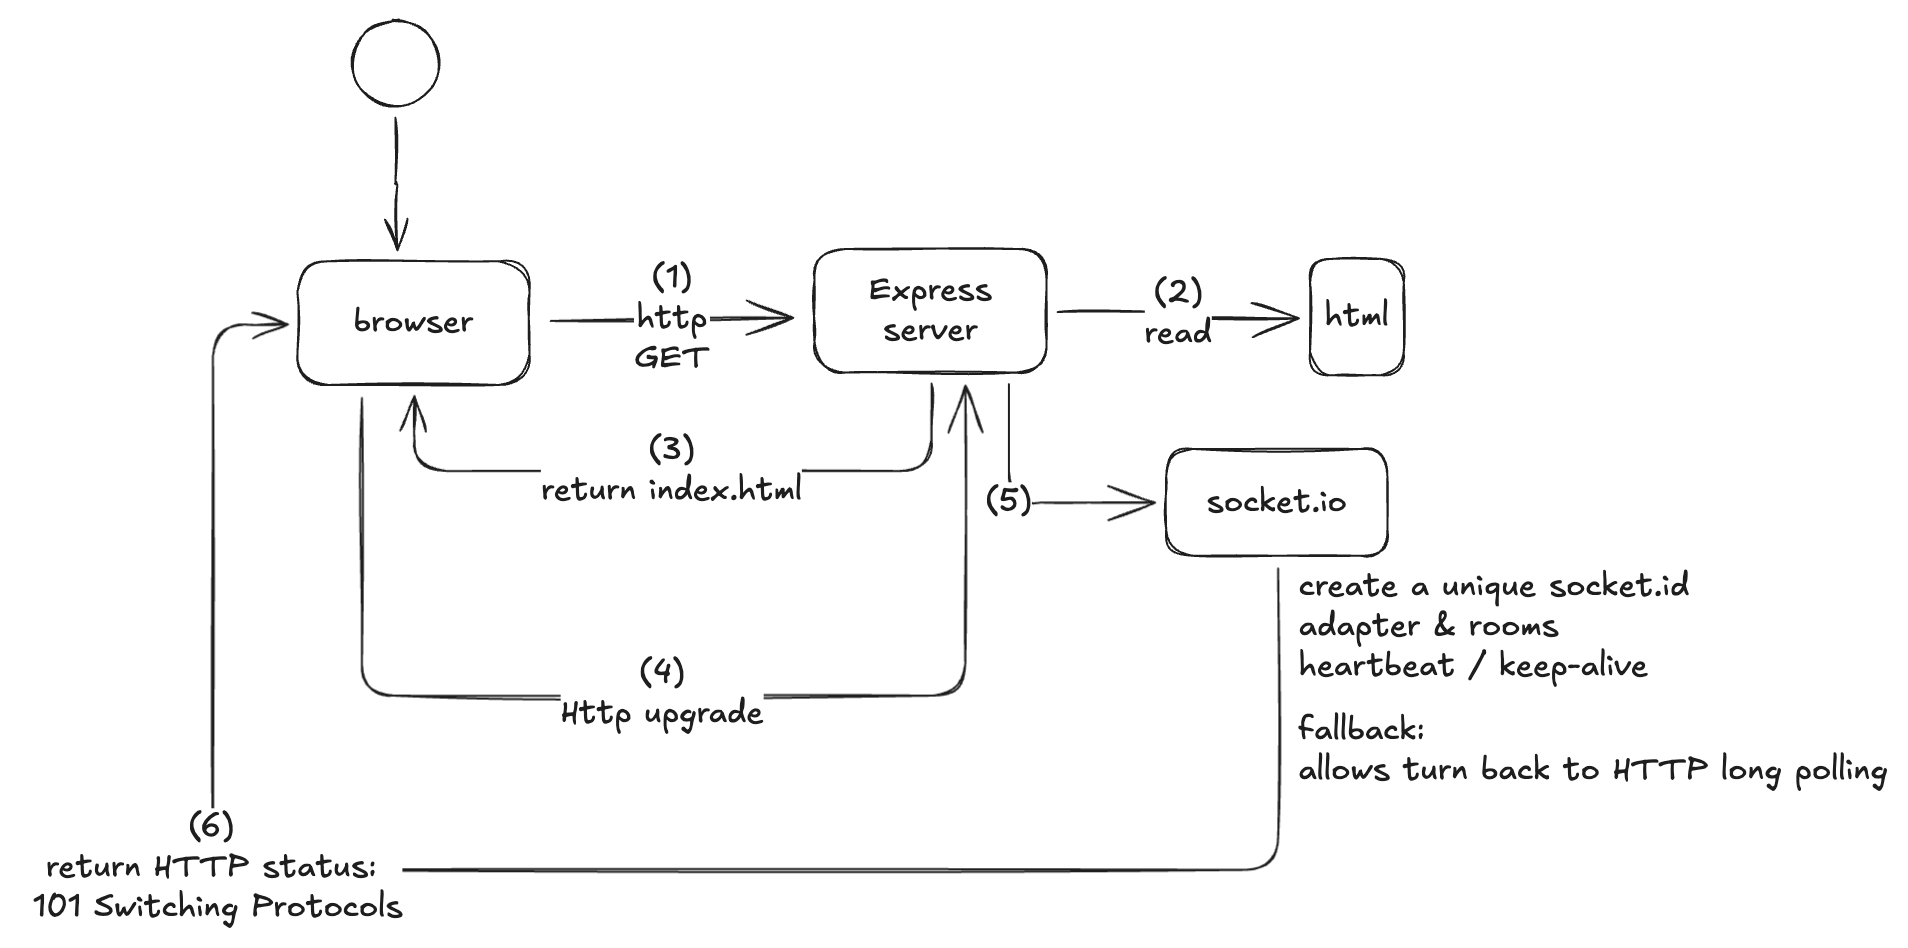
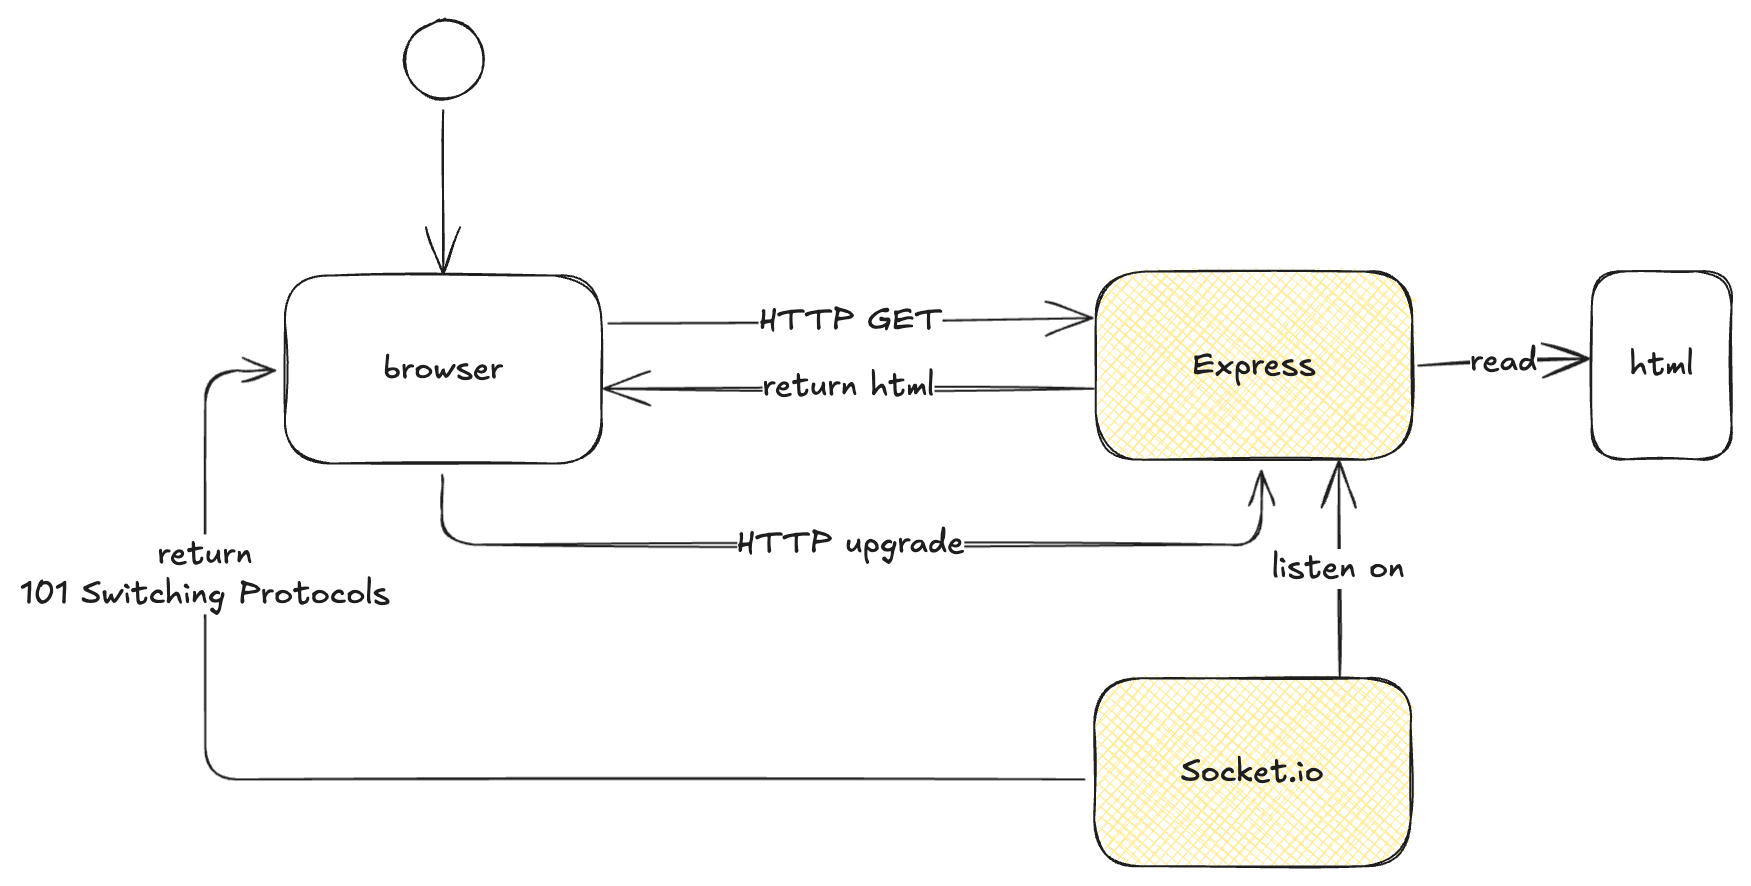
update README and arch diagram

diff --git a/README.md b/README.md
@@ -1,68 +1,57 @@
-# WebRTC
+# Chipi Chat
+This is a real-time Video chat app.
+![](./img/createConnections.png)
 
-It's a Real-Time Chat program built with WebRTC and Socket.io.
-![](https://i.imgur.com/8F1HE9Z.jpg)
-
----
-There are **3 features** in this WebRTC:
-1. Real-Time Video Chat
-2. Text Chat => can see the list of joining and leaving in real-time
-3. check "who's online"
----
 
 <!-- ## Table of Contents -->
 > * [Dev Tools](#dev-tools)
-> * [Usage](#usage)
 > * [Files Description](#files-description)
+> * [How to run locally](#how-to-run-locally)
 > * [Reference](#reference)
-> * [Demo Screenshot](#demo-screenshot)
+> * [Screenshots](#screenshots)
 
 
 ## Dev Tools
-* **WebRTC**
-* **MediaStream**
-* **Express**
-* **Socket.io**
-* Programming Language
-  * **Javascript**
-  * **HTML5** / **CSS**
+- [WebRTC](https://webrtc.org/)
+- [Express](https://expressjs.com/)
+- [Socket.io](https://socket.io/)
+- [Node.js](https://nodejs.org/en)
 
+## Files Description
+```
+.
+├── app.js: Start up the socket.io connection.
+├── event.js: Events list may occur in the chat room. Including joinRoom, leaveRoom, offer, answer, icecandidate.
+├── public
+│   ├── css
+│   ├── js
+│   │   ├── chat.js: User connection events. Including “new entering”, “leave”, and “disconnect.”
+│   │   ├── landing.js
+│   │   ├── onlineList.js: Show or hide online users list user interface.
+│   │   ├── video_chat.js: WebRTC controller.
+│   │   └── welcome_page.js: Welcome page controller.
+│   ├── landing.html
+│   └── room.html
+```
 
-## Usage
-* Download 
+## How to run locally
+Download 
 ```bash=
 git clone https://github.com/yihanYozikua/WebRTC.git
-cd final
+cd WebRTC
 npm install
 ```
-* Execution
+Execution
 ```bash=
 node app.js
 ```
-
-
-## Files Description
-### /public/css/
-  HTML style.
-### /public/js/
-  * /public/js/chat.js：User connection events. Including “new entering”, “leave”, and “disconnect.”
-  * /public/js/onlineList.js：Show or hide online users list user interface.
-  * /public/js/video_chat.js：WebRTC controller.
-  * /public/js/welcome_page.js：Welcome page controller.
-### /public/index.html
-  User interface.
-### app.js
-  Start up the socket.io connection.
-### event.js
-  Events list may occur in the chat room. Including joinRoom, leaveRoom, offer, answer, icecandidate.
 
 ## Reference
 * [WebRTC API](https://developer.mozilla.org/en-US/docs/Web/API/WebRTC_API)
 * [MediaStream API](https://developer.mozilla.org/en-US/docs/Web/API/MediaStream)
 * [IT邦幫忙鐵人賽-菜雞前端邁入網頁即時通訊(WebRTC)之旅 系列](https://ithelp.ithome.com.tw/users/20129521/ironman/3138)
 
-
-## Demo Screenshot
+## Screenshots
 ### Full features!
 ![](https://i.imgur.com/8F1HE9Z.jpg)
 
